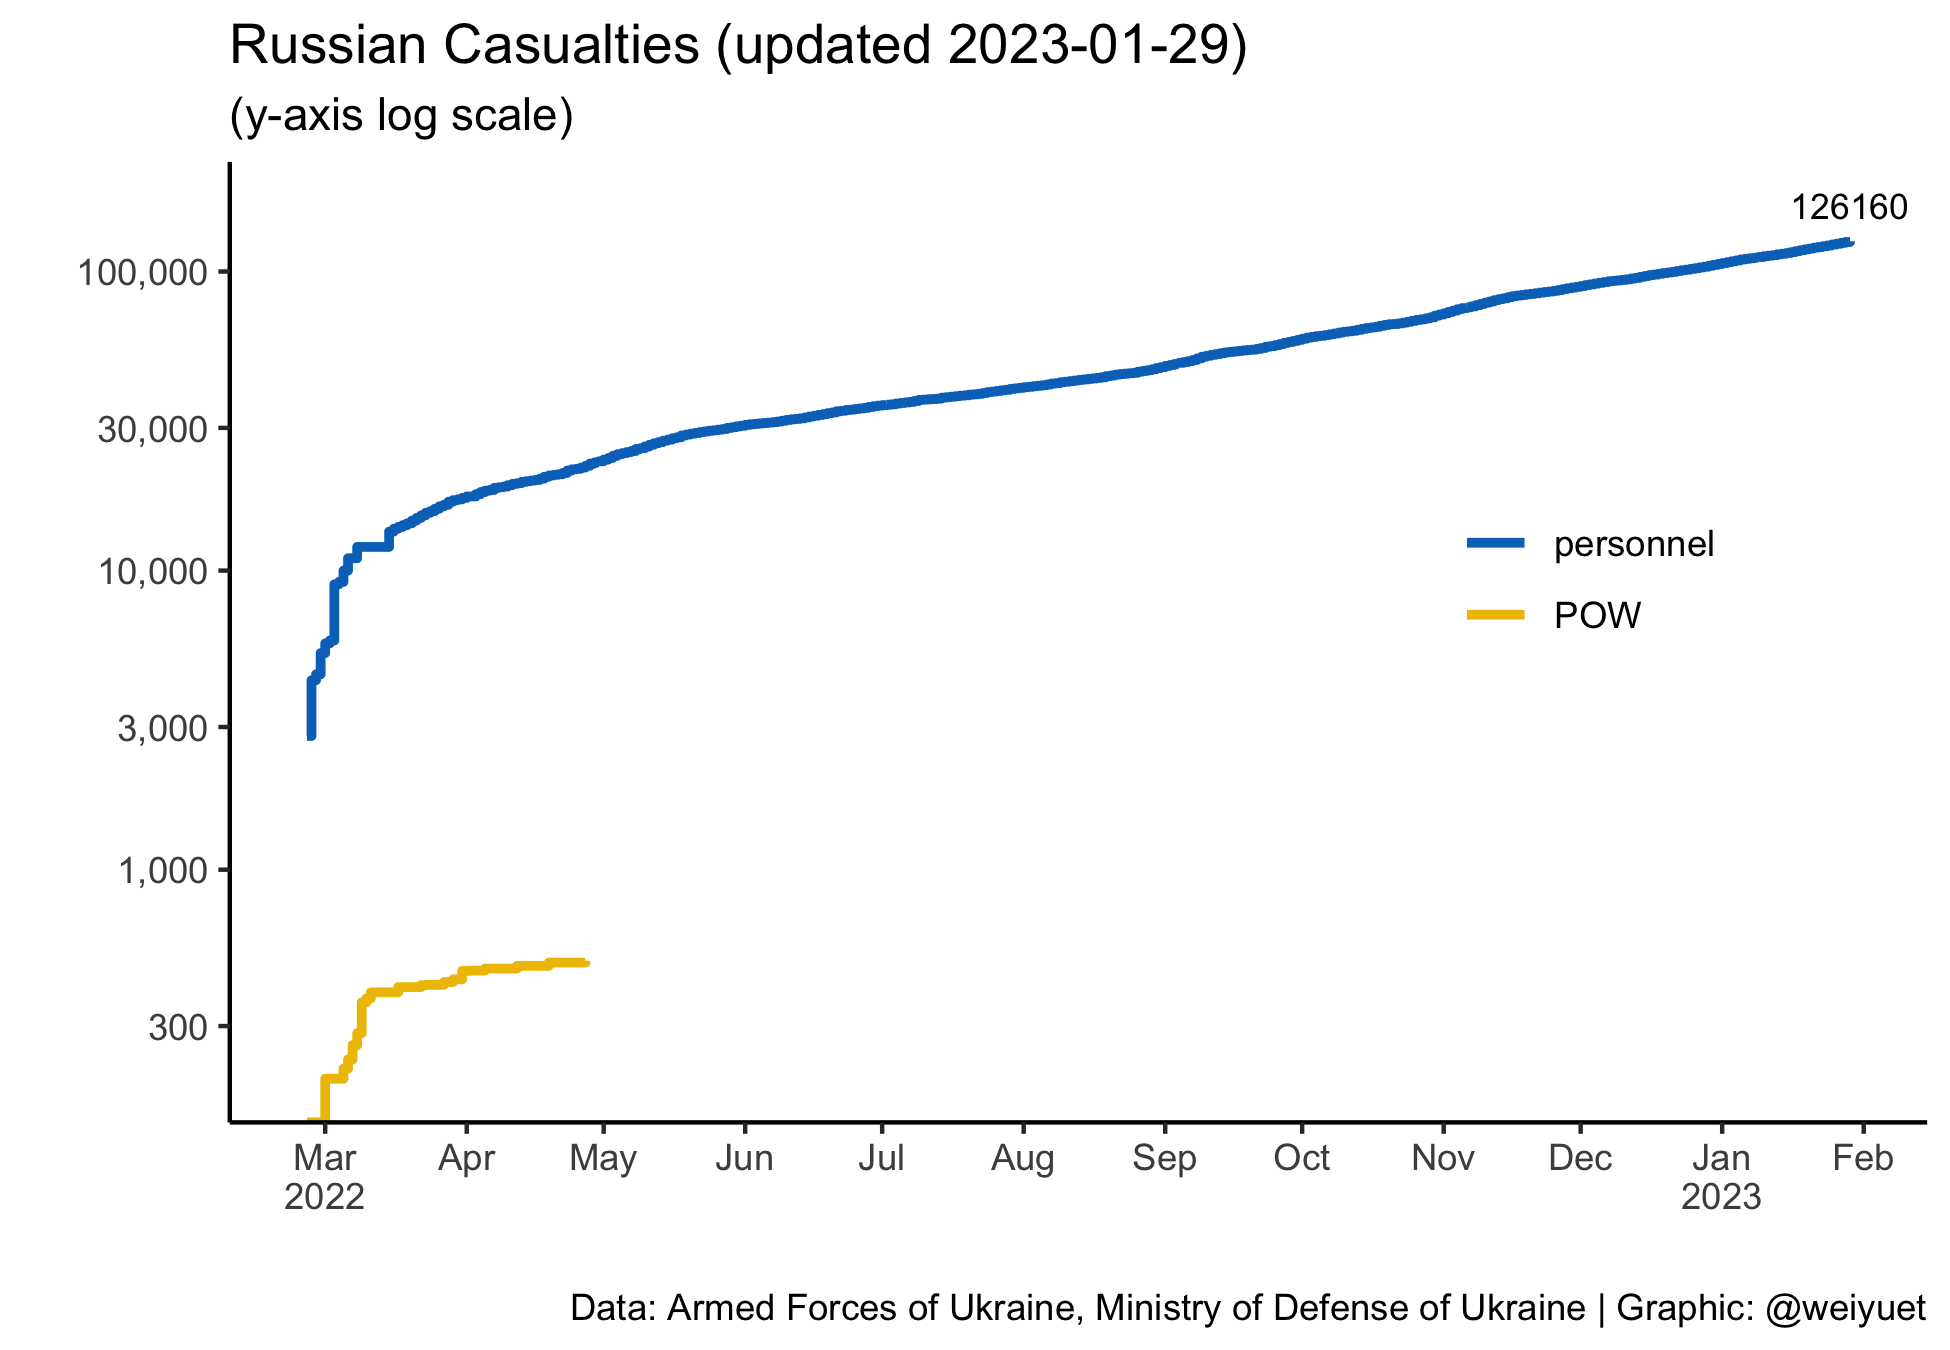
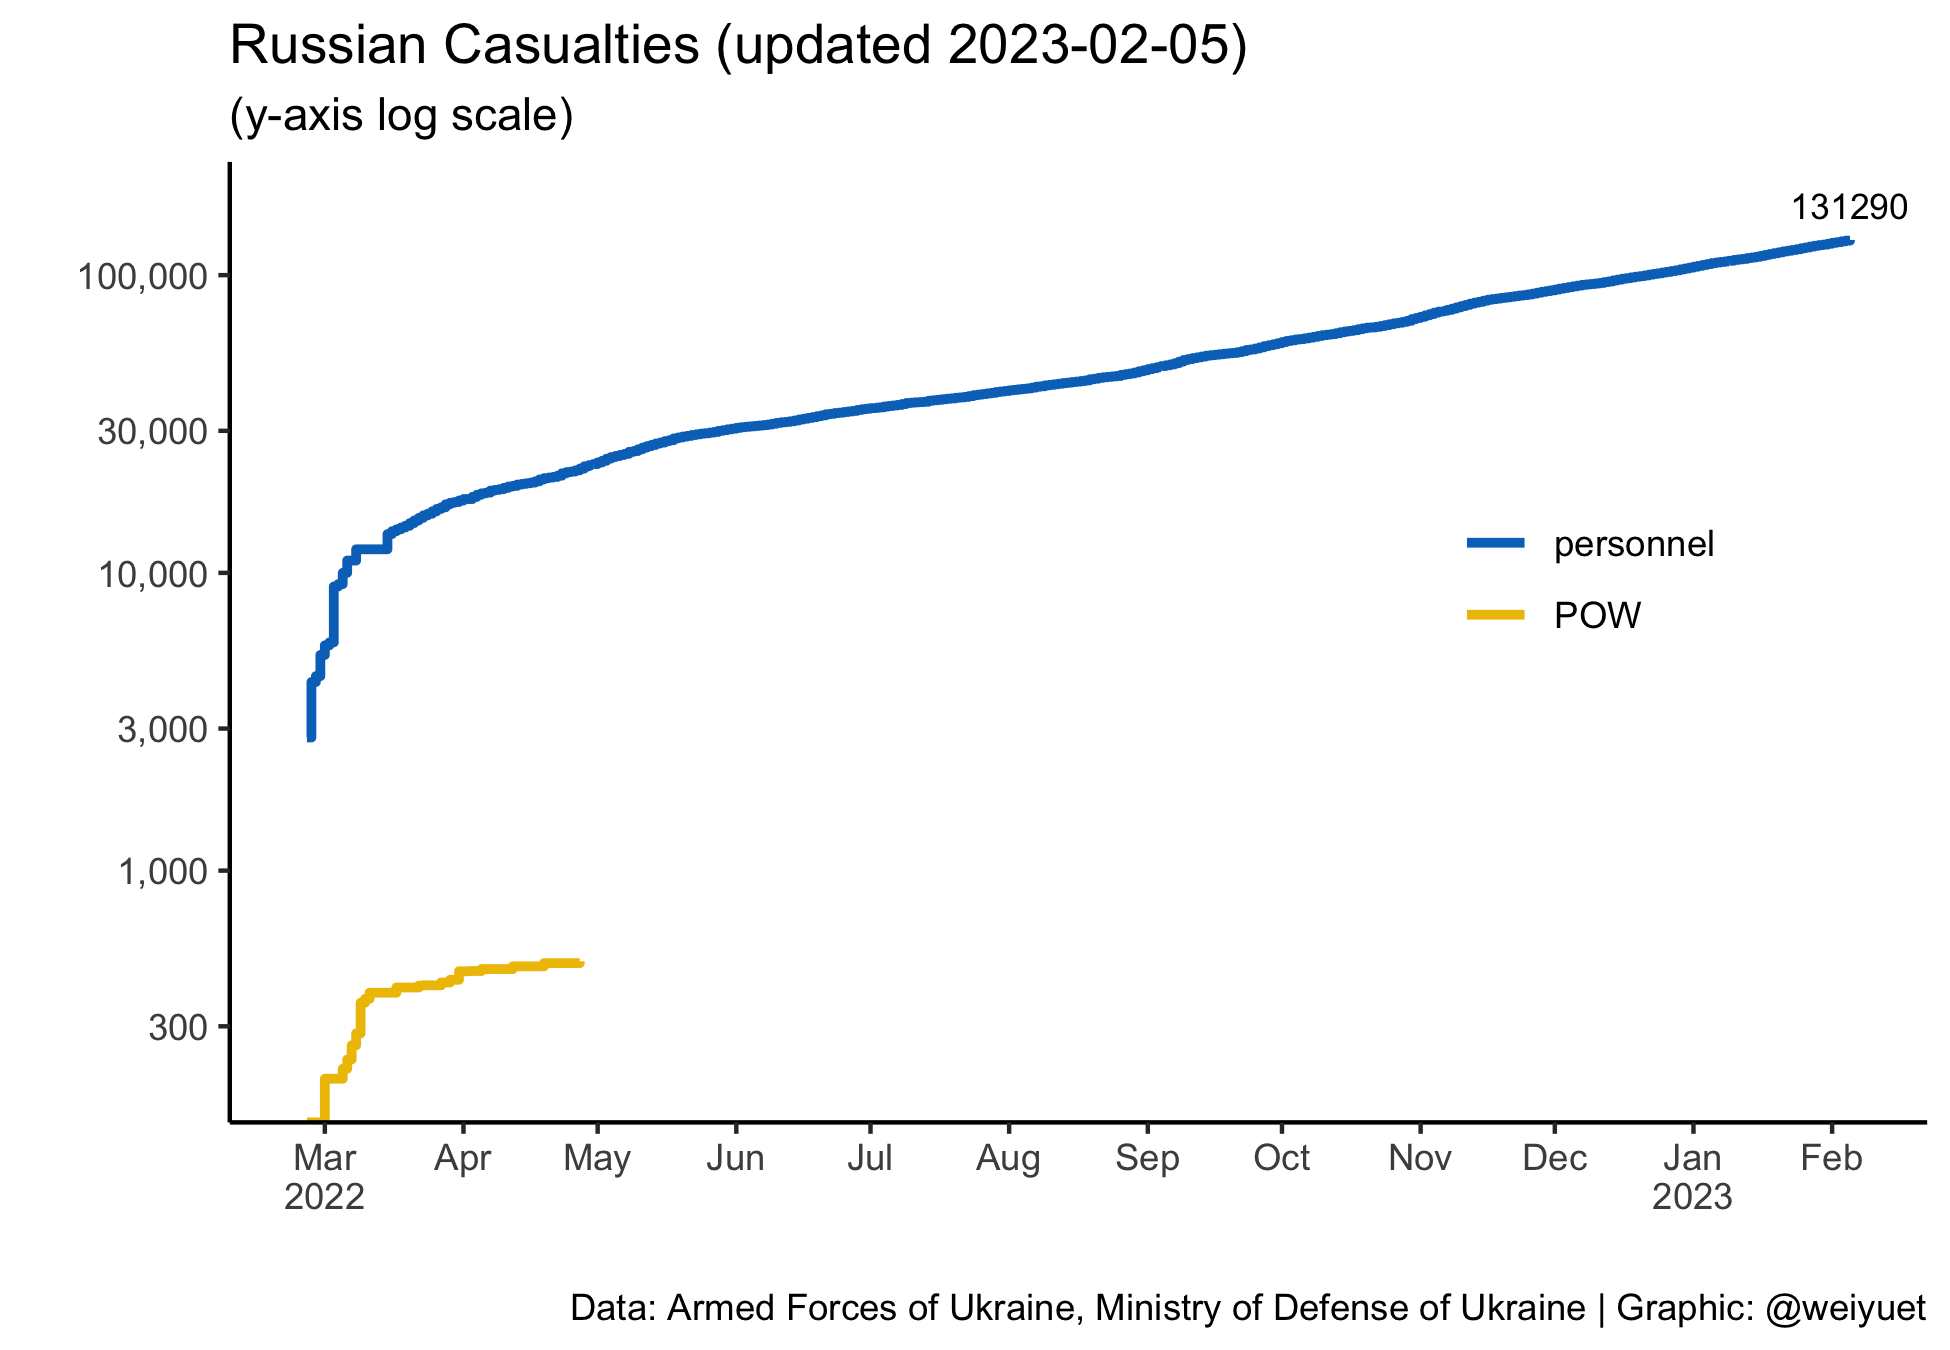
Updated 6 February

diff --git a/README.md b/README.md
@@ -6,7 +6,7 @@ Wong Wei Yuet 2022-05-26
 
   - War casualty data updated daily from [`Petro Ivanyuk's Kaggle`](https://www.kaggle.com/datasets/piterfm/2022-ukraine-russian-war). All data is official and put together by `Petro`
 
-Updated: 2023-01-31
+Updated: 2023-02-06
 
 ## Summary of Conflict
 
